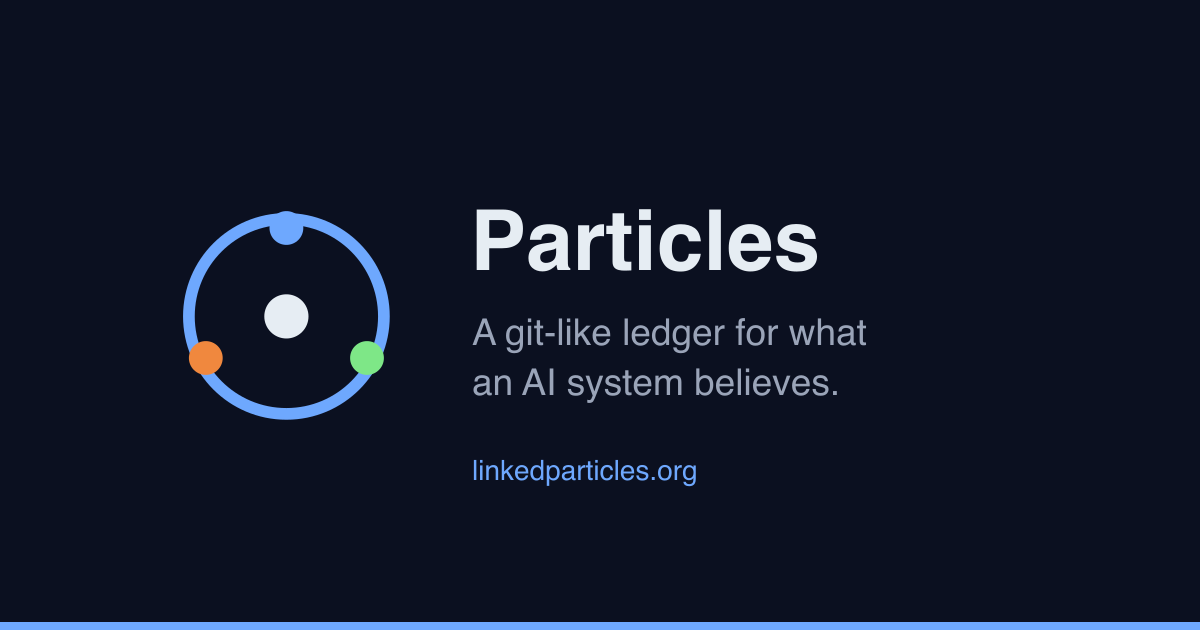
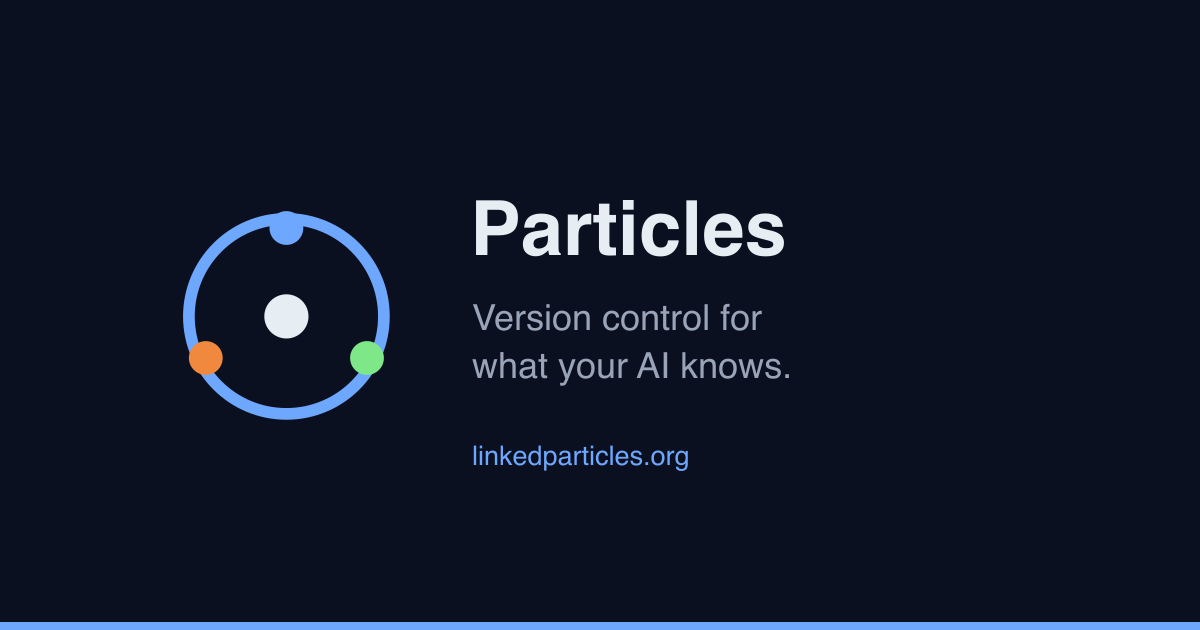
Particles standard — release 1.139.2
The Particles standard: the whitepaper, the technical
specification, the normative schema and SHACL artifacts, and the
conformance fixtures that define what a conforming
implementation is — independent of any one implementation.

This repository is a published view of a private development upstream,
advanced by per-release scrubbed exports. Pull requests are reviewed here
and land by import, with each author's identity and sign-off preserved
verbatim; CONTRIBUTING.md documents the flow.

Particles: provenance-tracked, calibrated-confidence knowledge for AI agent systems — https://linkedparticles.org

Changed region(s): [[0.37, 0.4825, 0.74, 0.6333], [0.4008, 0.3016, 0.6783, 0.4524], [0.37, 0.6937, 0.5858, 0.7841]]

diff --git a/docs/stylesheets/particles.css b/docs/stylesheets/particles.css
@@ -194,3 +194,25 @@ body[data-md-color-scheme="slate"] {
   box-shadow: var(--p-focus-ring);
   border-radius: var(--p-radius-xs);
 }
+
+/* ---- Landing hero (the one big plain sentence; Elly's rule) ------------- */
+.p-hero {
+  padding: 1.2rem 0 0.4rem;
+}
+.md-typeset .p-hero h1 {
+  font-size: 2.6rem;
+  line-height: 1.12;
+  font-weight: 700;
+  letter-spacing: -0.02em;
+  color: var(--p-text);
+  margin-bottom: 0.6rem;
+}
+.md-typeset .p-hero .p-hero-sub {
+  font-size: 1.05rem;
+  line-height: 1.55;
+  color: var(--p-text-muted);
+  max-width: 34rem;
+}
+@media (max-width: 44rem) {
+  .md-typeset .p-hero h1 { font-size: 1.9rem; }
+}

diff --git a/docs/index.md b/docs/index.md
@@ -1,5 +1,5 @@
 ---
-title: A git-like ledger for what an AI system believes
+title: Version control for what your AI knows
 description: Particles keeps AI memory as sourced, dated, confidence-scored claims — nothing overwritten, trust applied at read time, disagreements kept visible.
 ---
 <!--
@@ -12,18 +12,23 @@ description: Particles keeps AI memory as sourced, dated, confidence-scored clai
   lives on why.md, the demos on walkthrough.md. Keep it that way: new detail
   goes on those pages, not here.
 -->
-# Particles
+<div class="p-hero" markdown>
 
-**A git-like ledger for what an AI system believes.**
+# Version control for what your AI knows
 
-Every piece of knowledge is one claim: sourced, dated, and confidence-scored.
-As in a git history, nothing is overwritten: a correction *supersedes* the old
-claim, a withdrawal *retracts* it, and a disagreement is recorded as a
-disagreement — never quietly resolved. The full history of what was believed,
-and when, is always there. Trust, doubt, and staleness are applied when you
-*read*, never written into the stored claim. And the thing reading and writing
-beliefs doesn't have to be an AI: the same store works as a sourced, dated
-second brain for a person.
+A git-like ledger for what an AI system believes: every piece of knowledge is
+one claim — sourced, dated, confidence-scored — and nothing is ever
+overwritten.
+{ .p-hero-sub }
+
+</div>
+
+A correction *supersedes* the old claim, a withdrawal *retracts* it, and a
+disagreement is recorded as a disagreement — never quietly resolved. The full
+history of what was believed, and when, is always there. Trust, doubt, and
+staleness are applied when you *read*, never written into the stored claim.
+And the thing reading and writing beliefs doesn't have to be an AI: the same
+store works as a sourced, dated second brain for a person.
 
 [Get started](https://docs.linkedparticles.org/user-guide/getting-started/){ .md-button .md-button--primary }
 [See it work](walkthrough.md){ .md-button }
